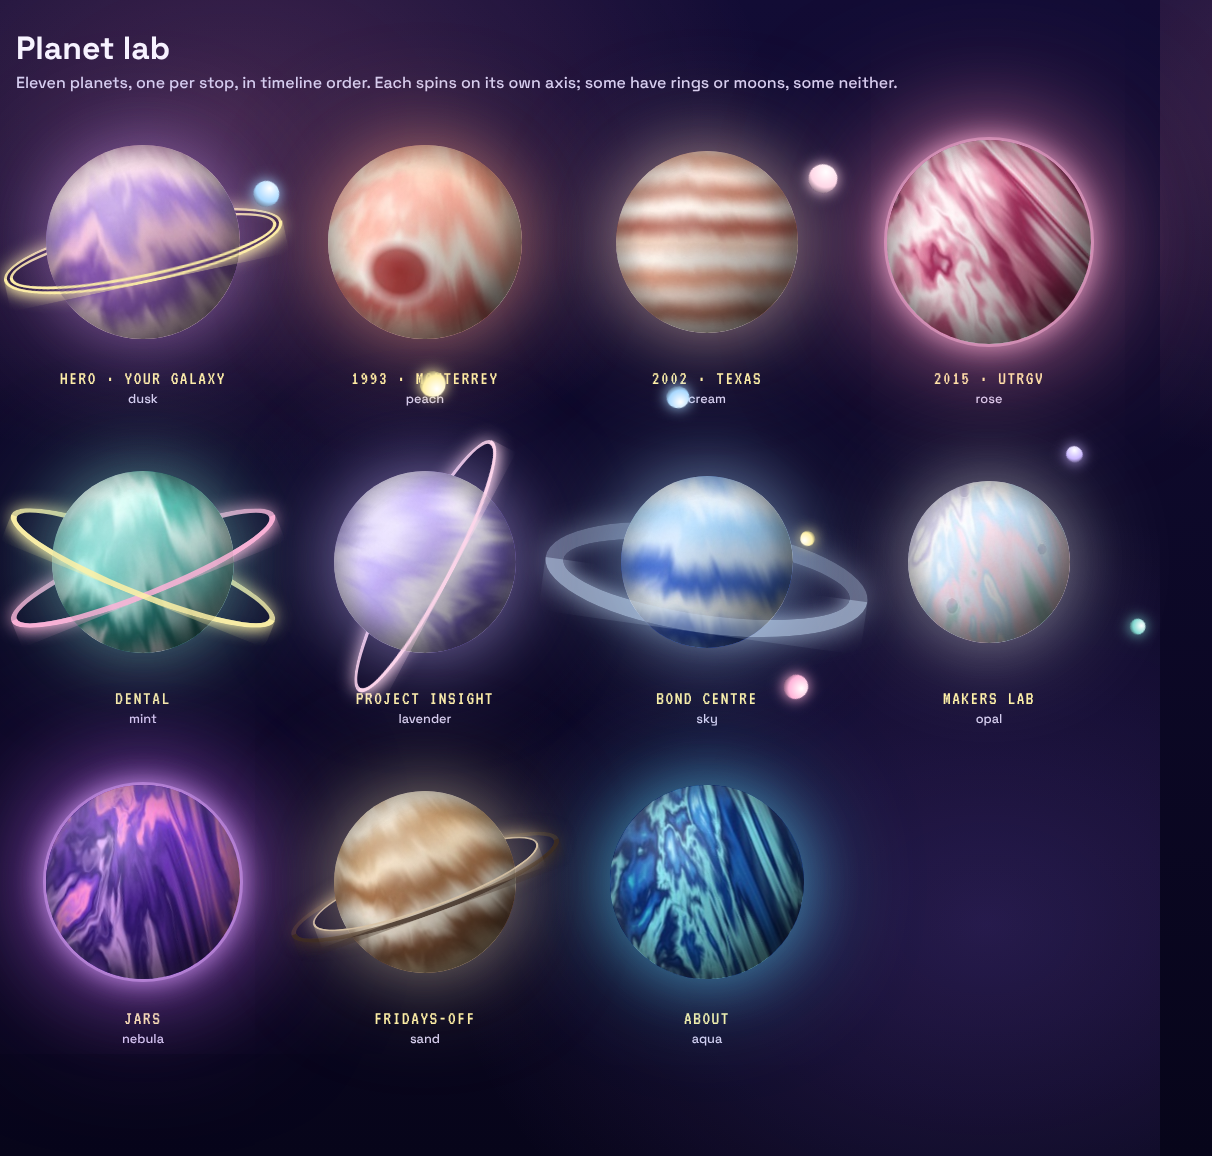
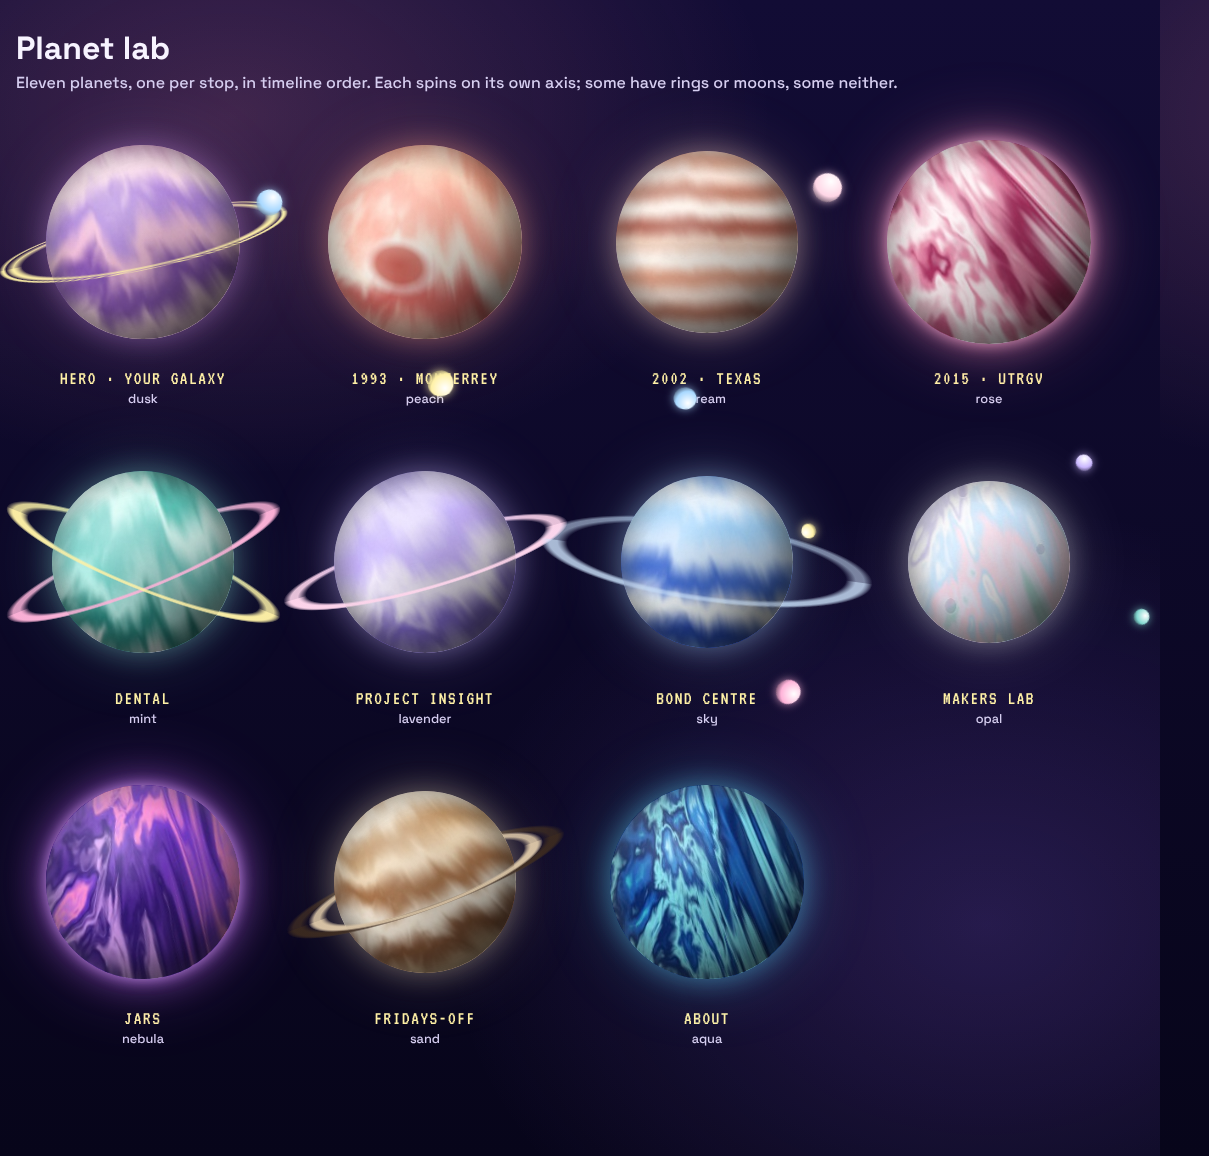
Planets: feathered rings and glows (no hard strokes), less tilt on Project Insight
Claude-Session: https://claude.ai/code/session_0126NKCS3TtysyaQaZxswtoT

diff --git a/site/assets/planets.css b/site/assets/planets.css
@@ -1,20 +1,22 @@
 /* Spinning painterly planets (see planets.js) */
 .planet3{position:relative;display:block;width:100%;aspect-ratio:1;max-width:100%}
-.planet3 .p3-ball{position:absolute;inset:var(--size,12%);border-radius:50%;overflow:hidden;z-index:2;box-shadow:0 0 60px var(--glow),0 0 120px var(--glow)}
-.planet3 .p3-ball.halo{box-shadow:0 0 0 3px color-mix(in srgb,var(--halo) 45%,transparent),0 0 30px var(--halo),0 0 90px var(--glow),0 0 160px var(--glow)}
+.planet3 .p3-ball{position:absolute;inset:var(--size,12%);border-radius:50%;overflow:hidden;z-index:2;box-shadow:0 0 28px var(--glow),0 0 70px color-mix(in srgb,var(--glow) 55%,transparent)}
+.planet3 .p3-ball.halo{box-shadow:0 0 14px color-mix(in srgb,var(--halo) 70%,transparent),0 0 36px var(--glow),0 0 80px color-mix(in srgb,var(--glow) 55%,transparent)}
 .planet3 .p3-tilt{position:absolute;inset:-25%;transform:rotate(var(--axis,0deg))}
 .planet3 .p3-tex{position:absolute;inset:0 auto 0 0;width:300%;background-size:50% 100%;background-repeat:repeat-x;animation:p3spin var(--spin,60s) linear infinite}
 .planet3 .p3-shade{position:absolute;inset:0;border-radius:50%;
   background:radial-gradient(circle at 34% 30%,#ffffff55 0,#ffffff00 32%),radial-gradient(circle at 50% 50%,transparent 52%,#0000002e 72%,#000000a0 100%),radial-gradient(circle at 78% 78%,#00000066,transparent 55%);
   box-shadow:inset -10px -14px 40px #0008,inset 6px 6px 22px #ffffff38}
-.planet3 .p3-ring{position:absolute;left:calc(-6% + var(--rin,0%));right:calc(-6% + var(--rin,0%));top:41%;height:18%;border-radius:50%;border:var(--rw,6px) solid var(--ring);opacity:var(--ro,.85);transform:rotate(var(--tilt,-14deg));box-shadow:0 0 18px var(--ring)}
-.planet3 .p3-ring.double{border-style:double}
-.planet3 .p3-ring.band{left:-14%;right:-14%;top:36%;height:28%;box-shadow:0 0 30px var(--ring),inset 0 0 20px var(--ring)}
+.planet3 .p3-ring{position:absolute;left:calc(-8% + var(--rin,0%));right:calc(-8% + var(--rin,0%));top:39%;height:22%;border-radius:50%;opacity:var(--ro,.85);transform:rotate(var(--tilt,-14deg));
+  background:radial-gradient(closest-side,transparent calc(100% - var(--rt,10%) - 6%),var(--ring) calc(100% - var(--rt,10%)),var(--ring) calc(100% - 5%),transparent 100%)}
+.planet3 .p3-ring.double{background:radial-gradient(closest-side,transparent calc(100% - var(--rt,10%) - 6%),var(--ring) calc(100% - var(--rt,10%)),transparent calc(100% - var(--rt,10%) / 2),var(--ring) calc(100% - var(--rt,10%) / 2 + 2%),var(--ring) calc(100% - 5%),transparent 100%)}
+.planet3 .p3-ring.band{left:-16%;right:-16%;top:34%;height:32%}
 .planet3 .p3-ring.back{z-index:1}
 .planet3 .p3-ring.front{z-index:3;clip-path:inset(50% 0 0 0)}
 .planet3 .p3-orbit{position:absolute;inset:var(--orb,-2%);border-radius:50%;z-index:4;transform:rotate(var(--at,0deg));animation:p3orbit var(--od,22s) linear infinite}
-.planet3 .p3-moon{position:absolute;top:0;left:50%;width:var(--ms,10%);aspect-ratio:1;border-radius:50%;transform:translate(-50%,-50%);background:radial-gradient(circle at 35% 30%,#fff,var(--moon) 55%,#0006);box-shadow:0 0 14px var(--moon)}
+.planet3 .p3-moon{position:absolute;top:0;left:50%;width:var(--ms,10%);aspect-ratio:1;border-radius:50%;transform:translate(-50%,-50%);background:radial-gradient(circle at 35% 30%,#fff,var(--moon) 55%,#0006);box-shadow:0 0 8px color-mix(in srgb,var(--moon) 70%,transparent)}
 @keyframes p3spin{to{transform:translateX(-50%)}}
 @keyframes p3orbit{from{transform:rotate(var(--at,0deg))}to{transform:rotate(calc(var(--at,0deg) + 360deg))}}
 .no-motion .planet3 .p3-tex,.no-motion .planet3 .p3-orbit{animation:none}
 @media (prefers-reduced-motion: reduce){.planet3 .p3-tex,.planet3 .p3-orbit{animation:none}}
+.planet3.mini3 .p3-ball{box-shadow:0 0 10px var(--glow)}

diff --git a/site/assets/planets.js b/site/assets/planets.js
@@ -15,10 +15,10 @@
                 glow: '#ff8fb899', halo: '#ffb3d9' },
     mint:     { c: ['#1d6b66', '#5fc4b8', '#d9fff8', '#81d8d0', '#b8f2ea', '#2f8f86', '#effffc'], bands: 7, swirl: .5, style: 'bands', tilt: 6, size: 14,
                 rings: [{ c: '#ffb3d9', a: -22, w: 6, o: .85 }, { c: '#fff1a6', a: 22, w: 6, o: .85 }], glow: '#81d8d066' },
-    lavender: { c: ['#5b4b9a', '#9f8fe0', '#e6dcff', '#c9b6ff', '#f6efff', '#8a73d6', '#d8c9ff'], bands: 7, swirl: .35, style: 'bands', tilt: -62, size: 14,
-                rings: [{ c: '#ffd6ec', a: -62, w: 4, o: .9 }], glow: '#c9b6ff66' },
+    lavender: { c: ['#5b4b9a', '#9f8fe0', '#e6dcff', '#c9b6ff', '#f6efff', '#8a73d6', '#d8c9ff'], bands: 7, swirl: .35, style: 'bands', tilt: -16, size: 14,
+                rings: [{ c: '#ffd6ec', a: -16, w: 4, o: .9 }], glow: '#c9b6ff66' },
     sky:      { c: ['#2b4fb8', '#7fb6ff', '#e6f3ff', '#a8d8ff', '#cfe6ff', '#4a74d6', '#f5fbff'], bands: 9, swirl: .3, style: 'bands', tilt: 4, size: 16,
-                rings: [{ c: '#cfe6ff', a: 8, w: 18, o: .4, k: 'band' }], moons: [{ c: '#ffb3d9', s: 8, r: -10, d: 28, at: 120 }], glow: '#a8d8ff66' },
+                rings: [{ c: '#cfe6ff', a: 8, w: 16, o: .55, k: 'band' }], moons: [{ c: '#ffb3d9', s: 8, r: -10, d: 28, at: 120 }], glow: '#a8d8ff66' },
     opal:     { c: ['#d9d3f2', '#fdfcff', '#cfe9ff', '#ffe3f0', '#f3f0ff', '#bfe9e4', '#ffffff'], bands: 5, swirl: .9, style: 'marble', tilt: 0, size: 18,
                 craters: 14, moons: [{ c: '#c9b6ff', s: 6, r: -4, d: 18, at: 0 }, { c: '#81d8d0', s: 5, r: -14, d: 26, at: 140, rev: true }, { c: '#fff1a6', s: 4, r: -22, d: 40, at: 260 }], glow: '#ffffff55' },
     nebula:   { c: ['#2a1660', '#5b2fb0', '#b36bff', '#ff8fd6', '#7a3fd0', '#3b1d84', '#e0a6ff'], bands: 5, swirl: 1.1, style: 'cloud', tilt: 10, size: 12,
